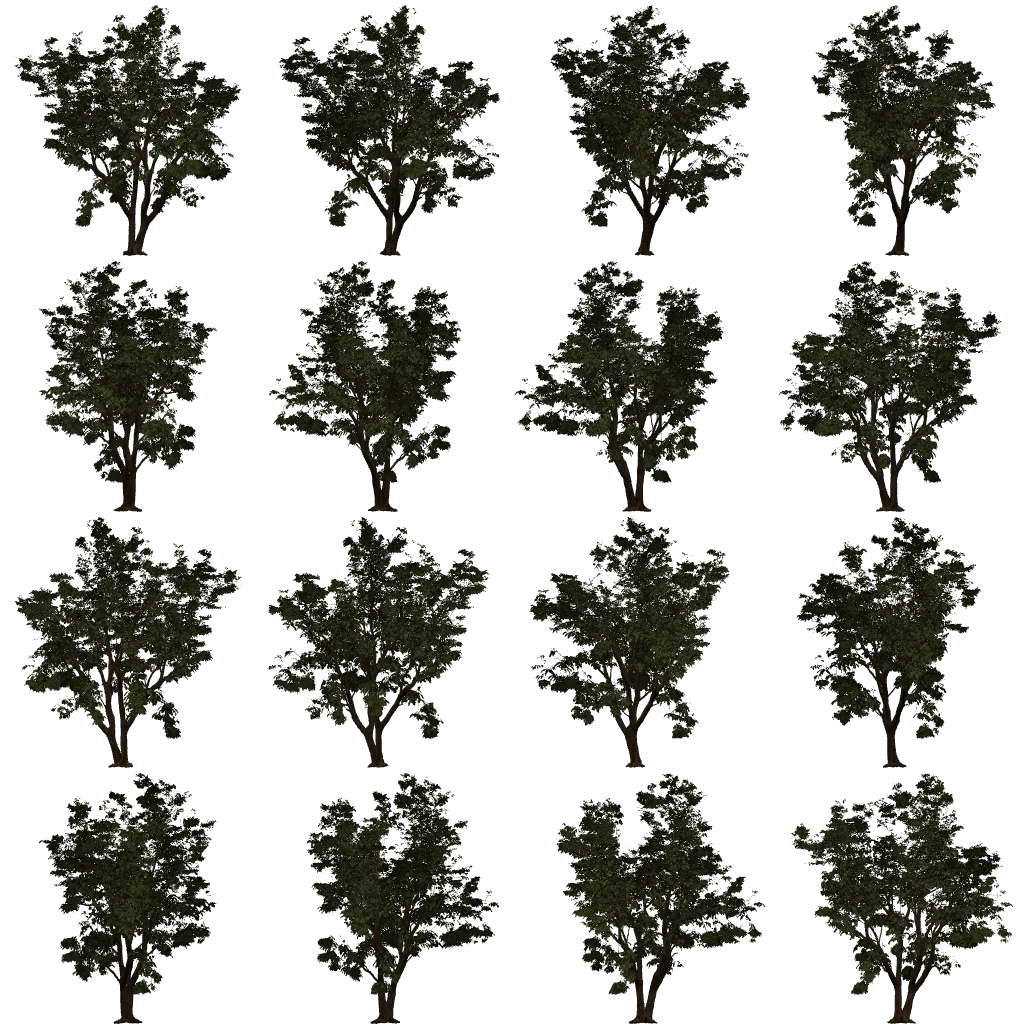
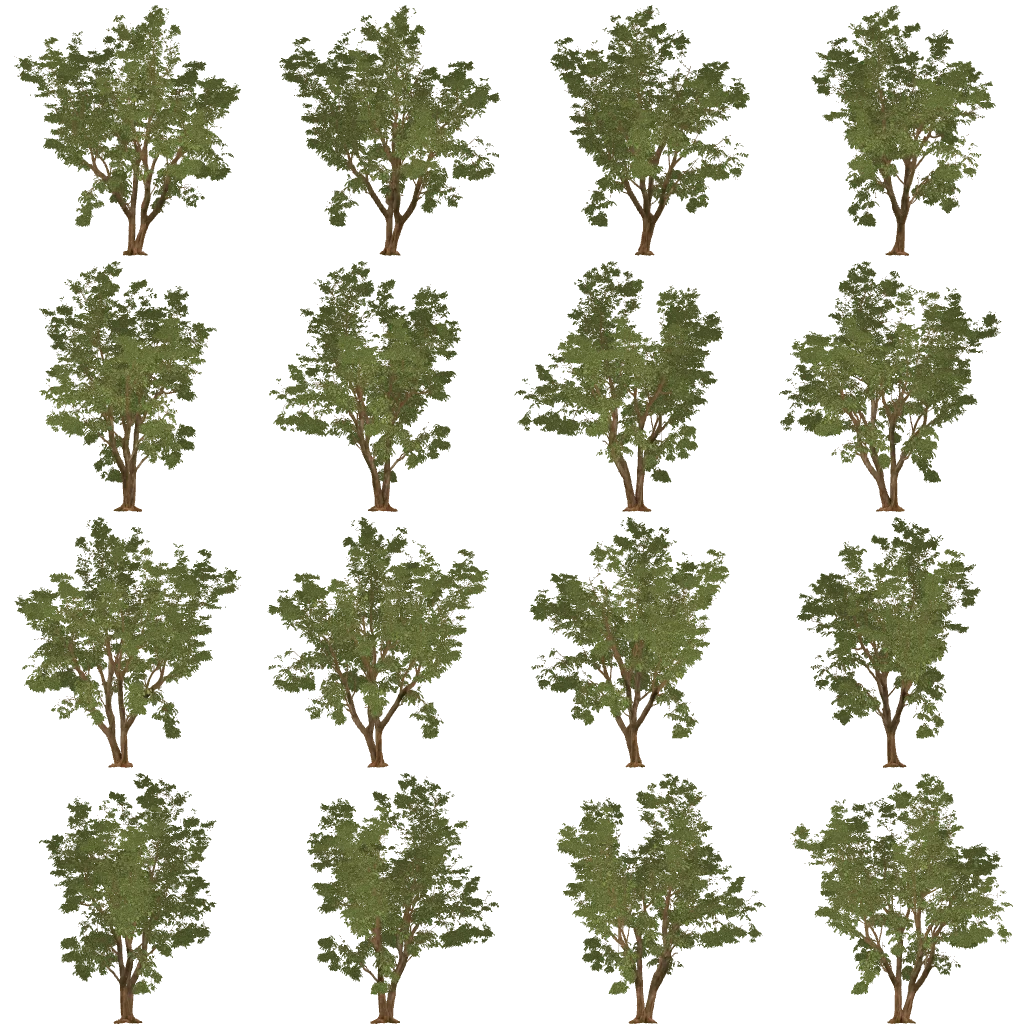
Realistic graphics, part 2: brighter, properly lit scanned trees and photo grass; fixes
- Re-baked tree impostors unlit, brightness normalised to real foliage, softer crown shading
- Crowns lit as rounded masses; thin trunks stay solid at a distance (no floating crowns)
- Photo grass card normalised so the ground colour tints it
- Thin bands, sills and eaves on buildings stay plain paint
- Credits for the new assets

Claude-Session: https://claude.ai/code/session_01HWXe5odU8Gx9dBpz7Fdoco

diff --git a/src/impostors.ts b/src/impostors.ts
@@ -120,6 +120,11 @@ export function impostorMaterials(name: string, type: PropType, height: number) 
         vec4 bTex = mix(bc0, bc1, bbBlend);
         vec3 bn = mix(texture2D(uNorm, bbUv0).xyz, texture2D(uNorm, bbUv1).xyz, bbBlend);
         bbLeaf = bn.z;
+        // Thin trunks and twigs fade out in the smaller mipmaps: keep them solid at a distance
+        vec2 tsz = vec2(textureSize(map, 0));
+        vec2 ddx = dFdx(bbUv0 * tsz), ddy = dFdy(bbUv0 * tsz);
+        float lod = max(0.0, 0.5 * log2(max(dot(ddx, ddx), dot(ddy, ddy))));
+        bTex.a = clamp(bTex.a * (1.0 + 0.45 * lod), 0.0, 1.0);
         diffuseColor *= bTex;
         diffuseColor.rgb *= mix(vec3(1.0), uLeafTint, bbLeaf);`)
       .replace('#include <normal_fragment_maps>', /* glsl */ `#include <normal_fragment_maps>

diff --git a/src/props.ts b/src/props.ts
@@ -52,6 +52,8 @@ function boxSurf(w: number, h: number, d: number): number {
   if (!wallSurf) return 0;
   const big = (w >= 2.2 ? 1 : 0) + (h >= 2.2 ? 1 : 0) + (d >= 2.2 ? 1 : 0);
   if (big < 2) return 0;
+  // (thin bands, sills and eaves stay plain paint)
+  if (h < 0.3) return 0;
   return h < 1 && wallSurf !== SURF.wood ? SURF.stone : wallSurf;
 }
 const box = (w: number, h: number, d: number, hex: number, x = 0, y = 0, z = 0) =>

diff --git a/README.md b/README.md
@@ -63,6 +63,6 @@ npm test             # world, auto-drive, music and projection tests
 npm run build && npx cap sync android && (cd android && ./gradlew assembleDebug)
 ```
 
-Icons and splash: `python3 resources/make_icons.py`. Credits: `public/textures/CREDITS.md`, `public/models/CREDITS.md`, `public/sounds/CREDITS.md`.
+Icons and splash: `python3 resources/make_icons.py`. Credits: `public/textures/CREDITS.md`, `public/models/CREDITS.md`, `public/impostors/CREDITS.md`, `public/sounds/CREDITS.md`.
 
 Code map: `src/world/` (regions, road, terrain, towns, bridges), `src/chunks.ts` (terrain, road, bridges, scenery), `src/foliage.ts`, `src/props.ts`, `src/special.ts` (city), `src/carspecs.ts` + `src/carbody.ts` + `src/carparts.ts` + `src/cockpit.ts` + `src/cars.ts` (cars), `src/drive.ts` (physics, auto-drive), `src/traffic.ts` + `src/vehicles.ts`, `src/peds.ts`, `src/weather.ts`, `src/sky.ts`, `src/audio.ts`, `src/map.ts`, `src/music.ts` + `src/youtube.ts` + `src/video.ts` + `src/tracks.ts`, `src/radio.ts`, `src/stats.ts`, `src/ui.ts`, `src/game.ts`.

diff --git a/public/textures/CREDITS.md b/public/textures/CREDITS.md
@@ -5,3 +5,4 @@ Resized for the game.
 rocky_trail (gravel.jpg).
 dry_decay_leaves, sand_01, rock_face_03, snow_02 and the others above also supply the *_nor.jpg normal maps (1K).
 cobblestone_floor_03 (cobble.jpg, cobble_nor.jpg) and concrete_pavement (paving.jpg, paving_nor.jpg), Poly Haven, CC0.
+white_stucco, red_brick, brown_planks_05, clay_roof_tiles, rock_wall_08, stone_wall (surfaces.jpg, surfaces_nor.jpg), Poly Haven, CC0.

diff --git a/public/impostors/CREDITS.md b/public/impostors/CREDITS.md
@@ -1,0 +1,2 @@
+Tree and grass impostors baked (16 views, colour + normals) from Poly Haven scanned models, CC0 (public domain):
+tree_small_02 (broad1), island_tree_01 (broad2), jacaranda_tree (broad3), fir_tree_01 a/b/c (fir1-3), grass_medium_01 (grass).
